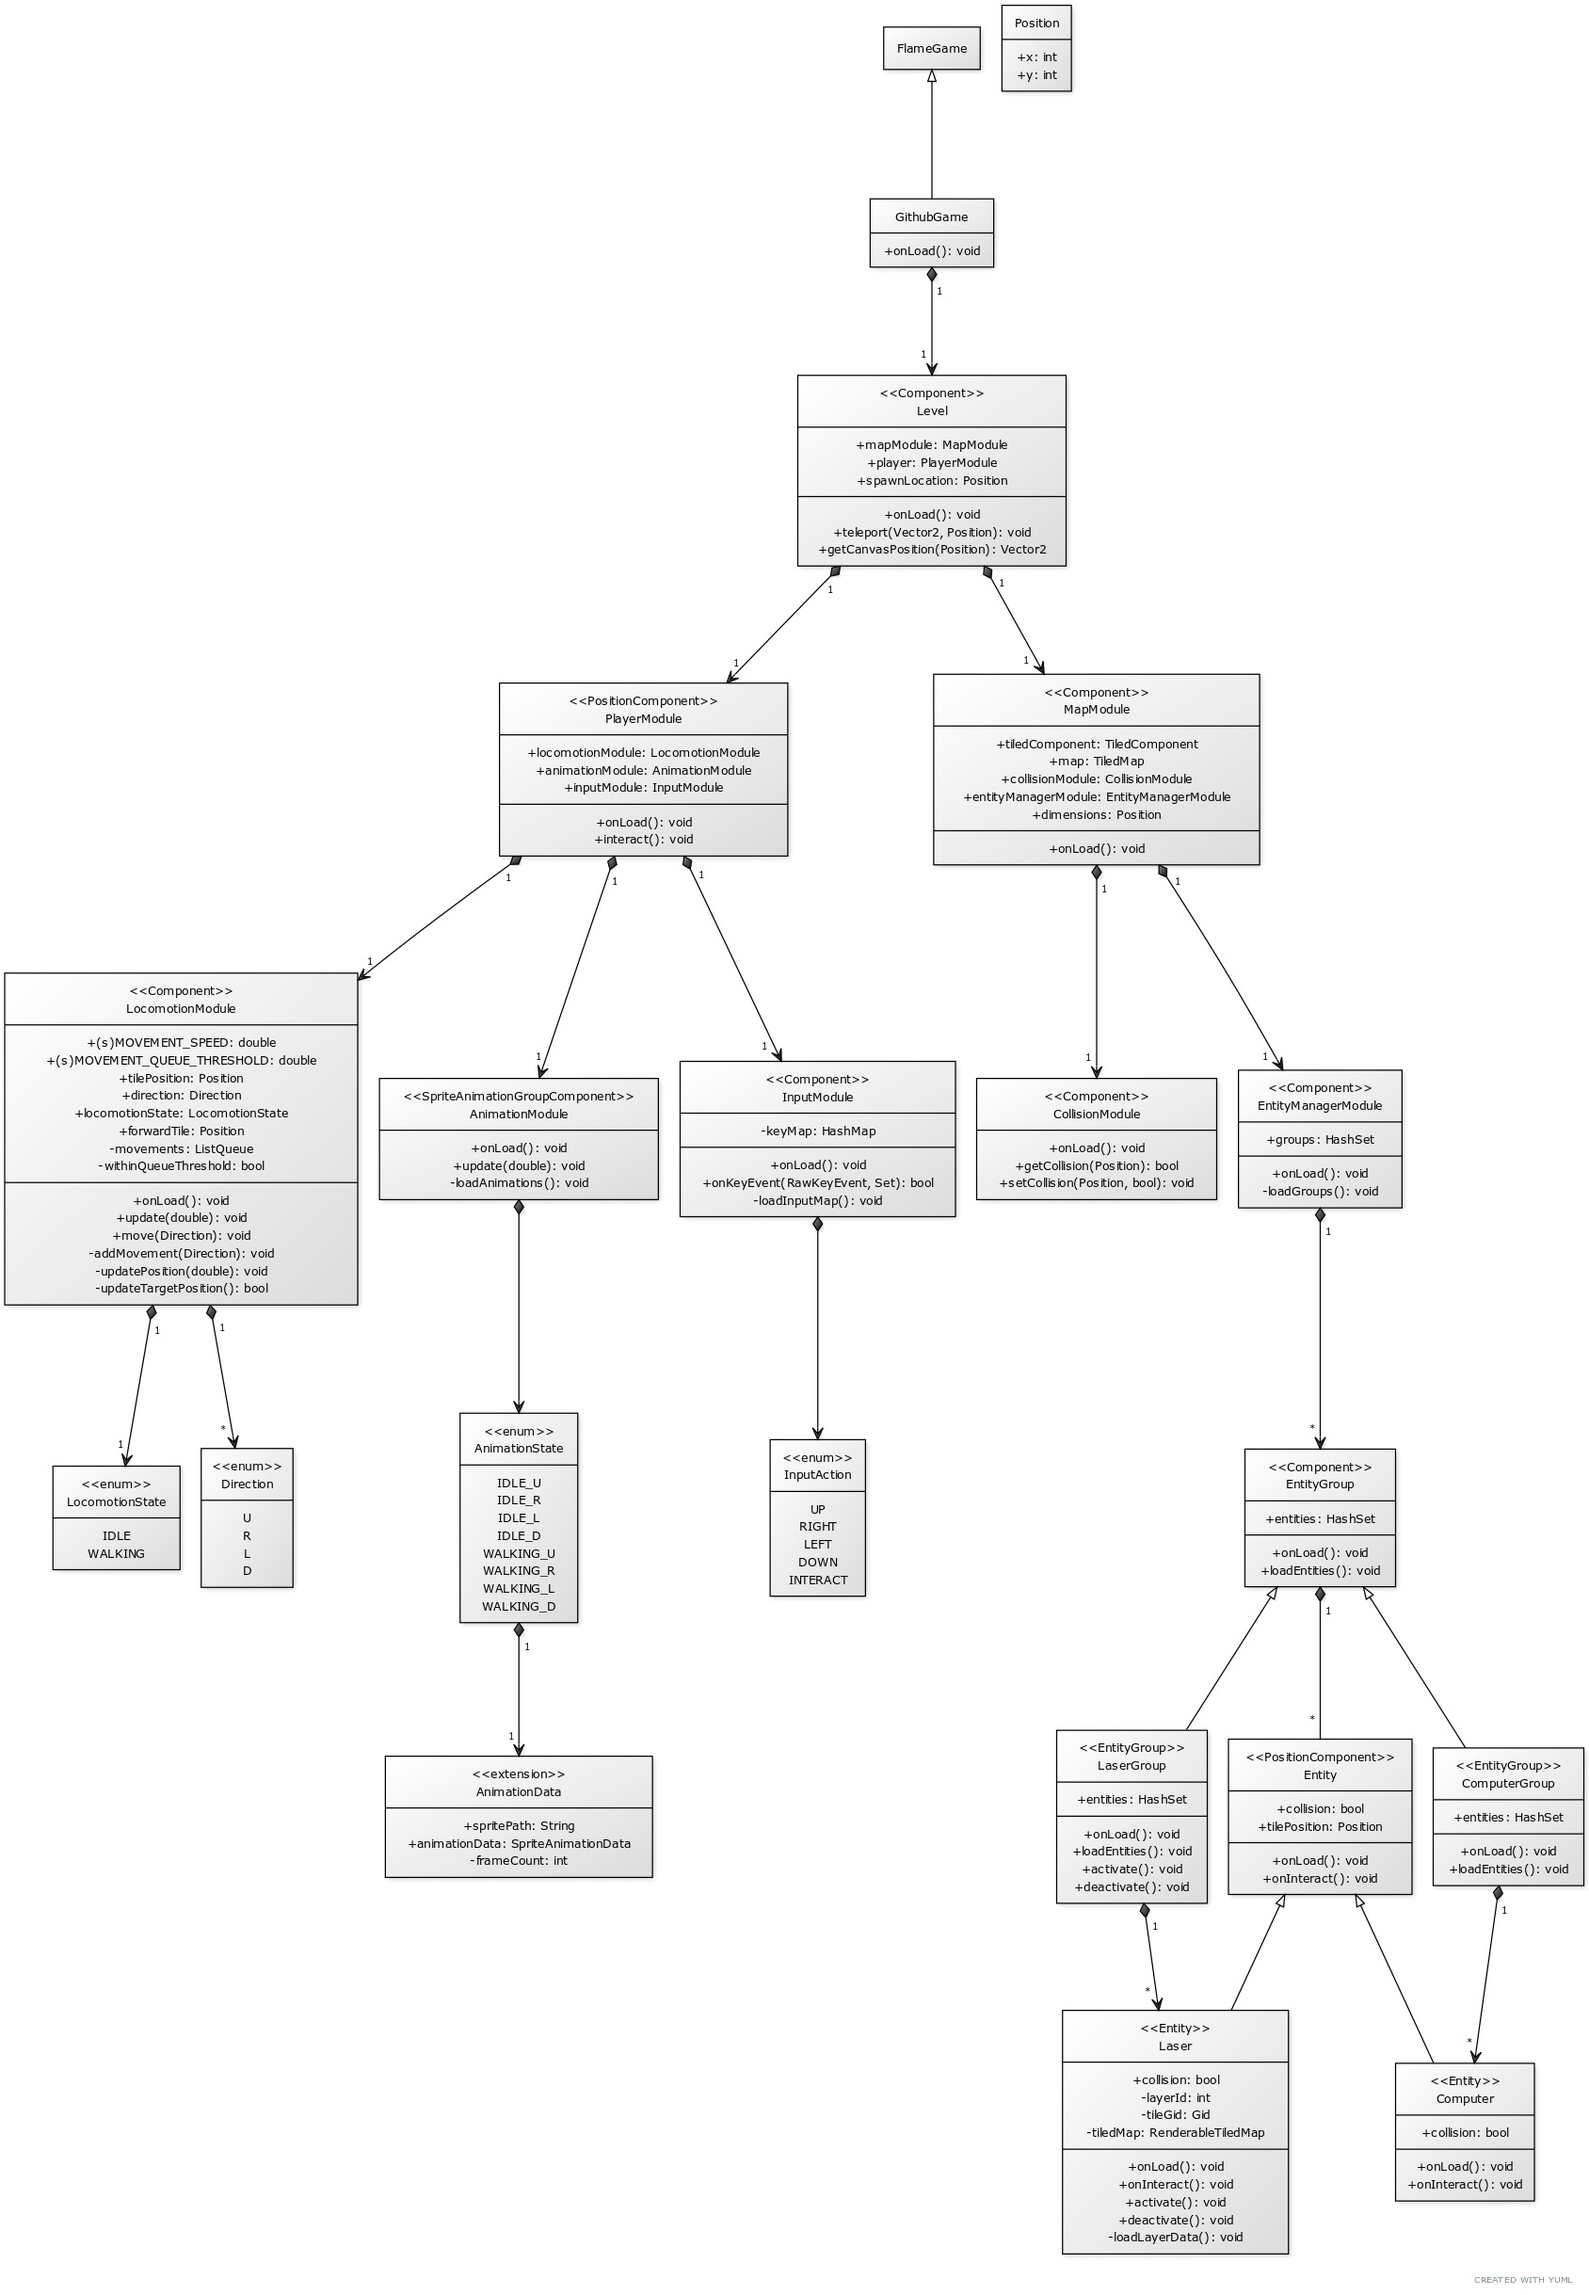
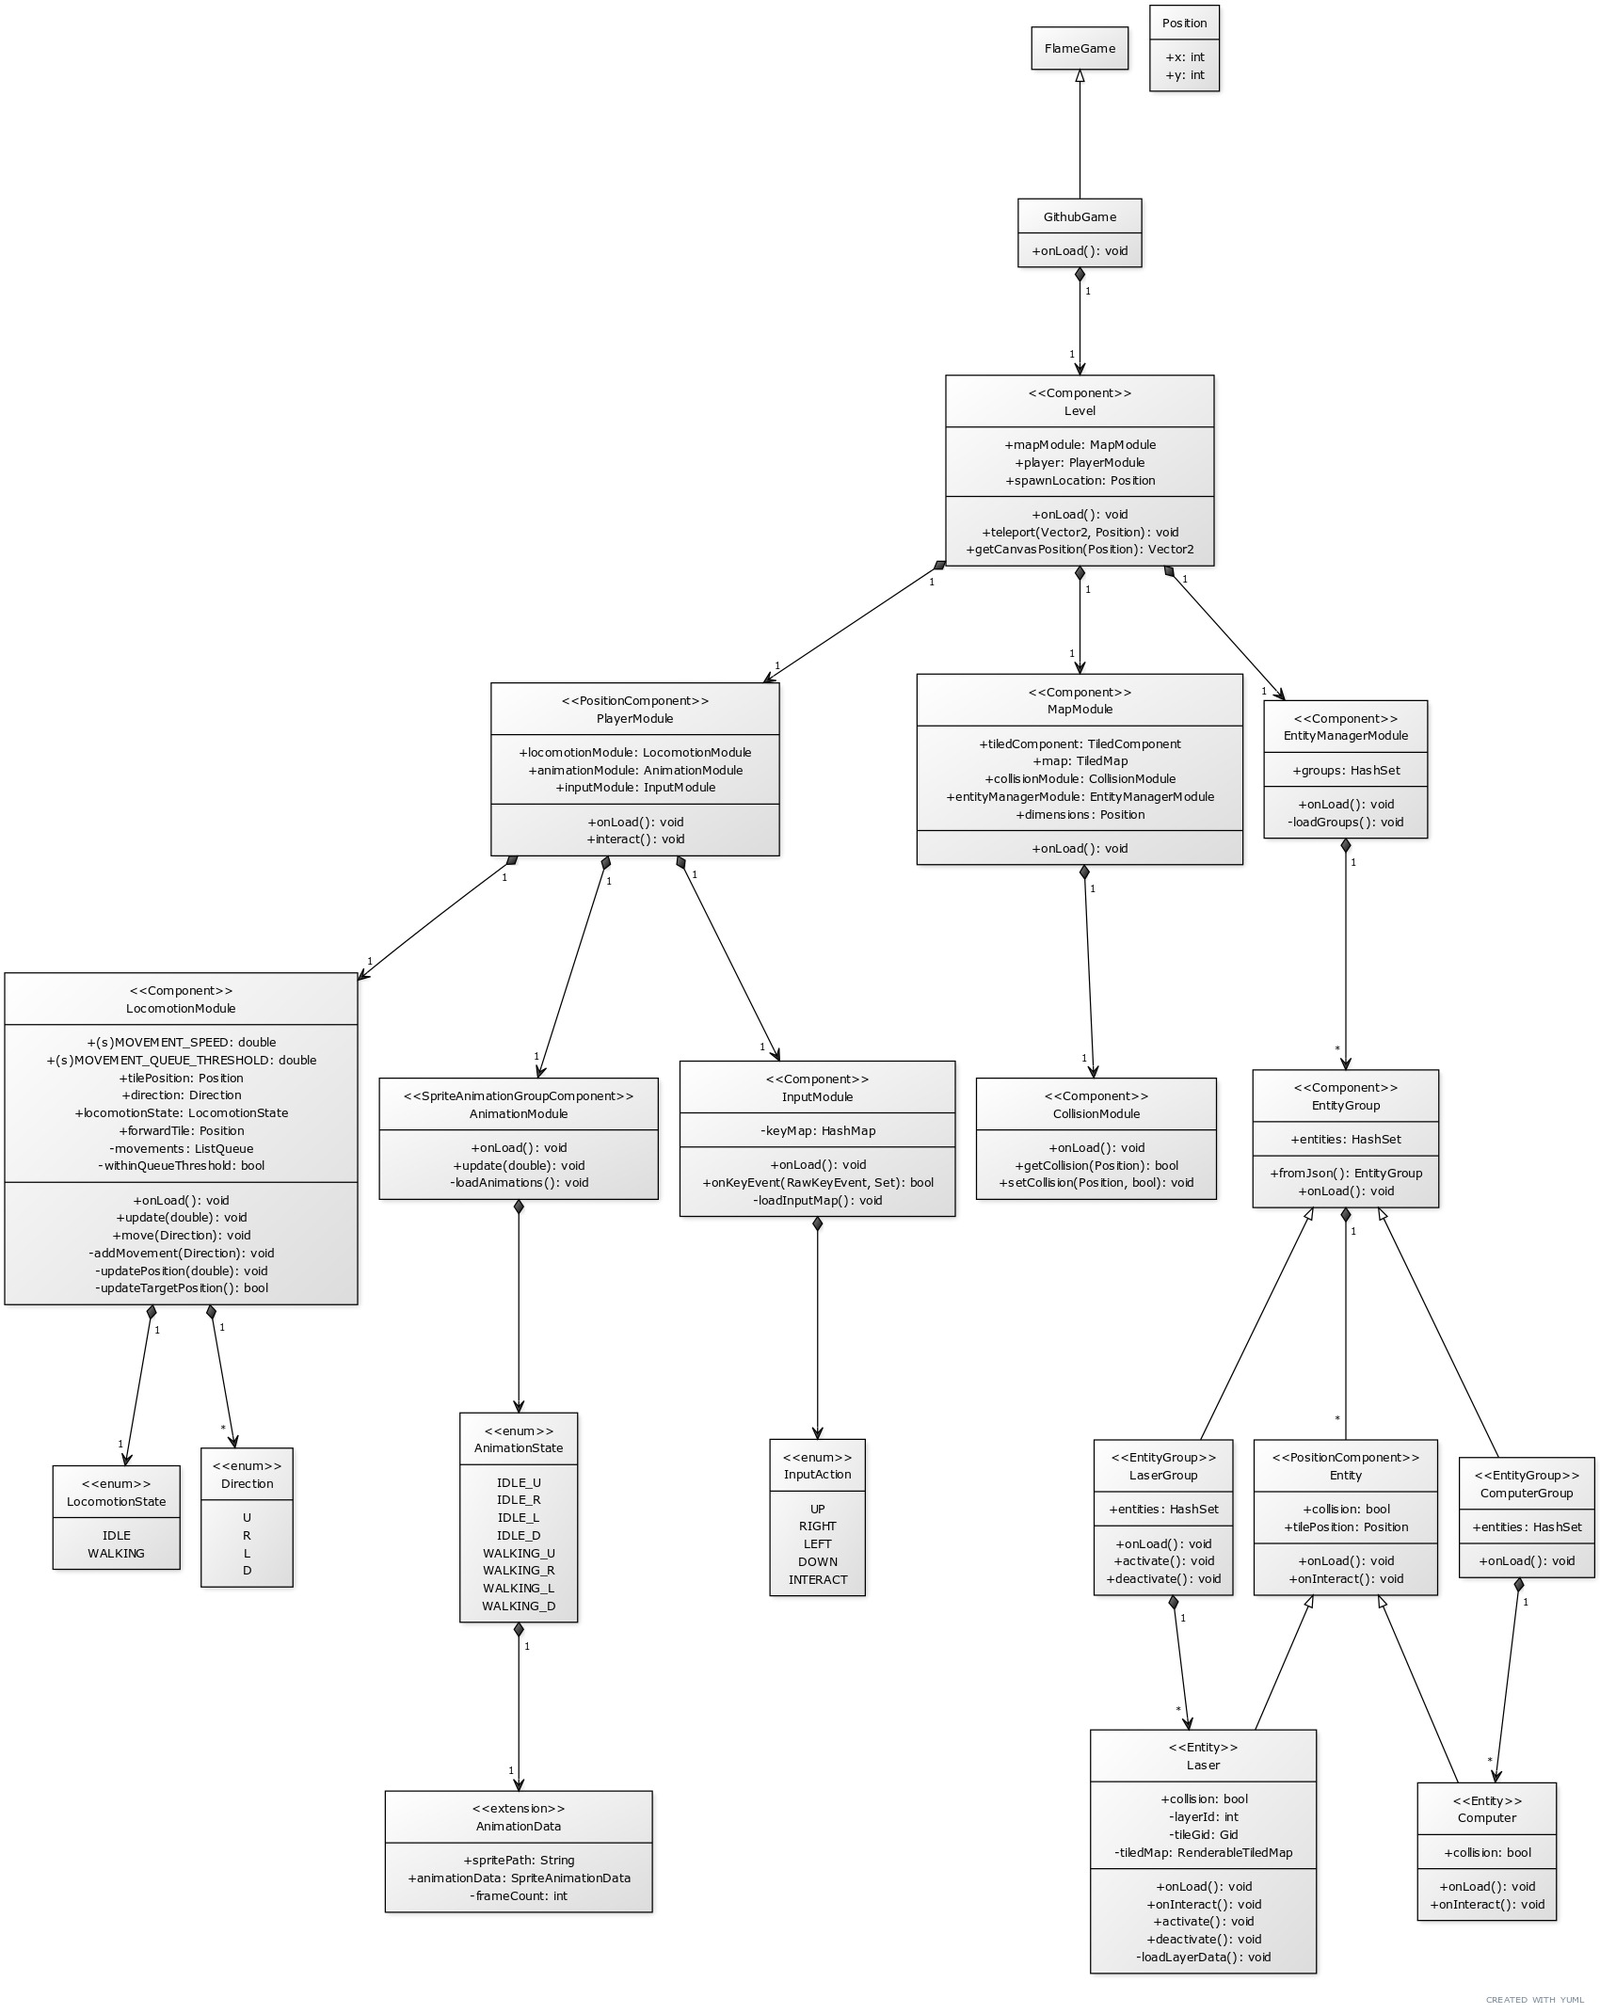
Level loading finished.

diff --git a/lib/level.dart b/lib/level.dart
@@ -1,8 +1,11 @@
 import 'package:flame/components.dart';
+import 'package:github_game/entities/entity_group.dart';
 import 'package:github_game/github_game.dart';
 import 'package:github_game/modules/player_module.dart';
 import 'package:github_game/modules/level/map_module.dart';
+import 'package:github_game/modules/level/entity_manager_module.dart';
 import 'package:quiver/core.dart';
+import 'dart:convert';
 
 /// Represents a position as 2 integers. Useful for tile coordinates.
 class Position {
@@ -16,22 +19,48 @@ class Position {
   String toString() => "$x, $y";
 }
 
+/// This is used to load levels from json files.
+extension _LevelLoader on Level {
+  /// This function loads the data into the level from the json file.
+  void _loadLevelJson(Map<String, dynamic> json) {
+    String title = json["title"];
+    String mapPath = json["mapPath"];
+    Map<String, dynamic> spawnPosMap = json["spawnLocation"];
+    List<dynamic> entityGroups = json["entityGroups"];
+
+    _title = title;
+    _mapModule = MapModule.fromFile(mapPath);
+    _spawnLocation = Position(spawnPosMap["x"], spawnPosMap["y"]);
+
+    _entityManagerModule = EntityManagerModule(
+        entityGroups.map((groupJson) => EntityGroup.fromJson(groupJson)));
+  }
+}
+
 /// Represents a level with a player and tile map.
 class Level extends Component with HasGameRef<GithubGame> {
+  /// Title of the level
+  late final String _title;
+
   /// Reference to the player
   late final PlayerModule _player;
 
   /// Loads and manages the tile map
   late final MapModule _mapModule;
 
-  /// Path to the map file
-  late final String _mapPath;
+  /// Loads and manages the entities
+  late final EntityManagerModule _entityManagerModule;
 
   /// Player spawn location
   late final Position _spawnLocation;
 
-  /// Initializes the level with the map path and spawn location.
-  Level(this._mapPath, this._spawnLocation);
+  /// Initializes the level.
+  Level.fromJson(Map<String, dynamic> json) {
+    _loadLevelJson(json);
+  }
+
+  /// Returns a reference to the title string.
+  String get title => _title;
 
   /// Returns a reference to the player.
   PlayerModule get player => _player;
@@ -39,8 +68,8 @@ class Level extends Component with HasGameRef<GithubGame> {
   /// Returns a reference to the map module.
   MapModule get mapModule => _mapModule;
 
-  /// Returns the path to the map file.
-  String get mapPath => _mapPath;
+  /// Returns the entity manager module which handles all entities in the level.
+  EntityManagerModule get entityManagerModule => _entityManagerModule;
 
   /// Returns the player spawn location.
   Position get spawnLocation => _spawnLocation;
@@ -49,8 +78,8 @@ class Level extends Component with HasGameRef<GithubGame> {
   Future<void> onLoad() async {
     await super.onLoad();
 
-    add(_mapModule = MapModule());
-
+    await add(_mapModule);
+    add(_entityManagerModule);
     add(_player = PlayerModule());
 
     // Teleport the player to their spawn location

diff --git a/lib/modules/level/map_module.dart b/lib/modules/level/map_module.dart
@@ -5,7 +5,6 @@ import 'package:github_game/github_game.dart';
 import 'package:github_game/level.dart';
 import 'package:github_game/mixins/has_level_ref.dart';
 import 'package:github_game/modules/level/map/collision_module.dart';
-import 'package:github_game/modules/level/map/entity_manager_module.dart';
 
 /// This module is responsible for the tile map in a level.
 class MapModule extends Component with HasLevelRef {
@@ -21,11 +20,11 @@ class MapModule extends Component with HasLevelRef {
   /// Loads and manages collision data
   late final CollisionModule _collisionModule;
 
-  /// Loads and manages the entities
-  late final EntityManagerModule _entityManagerModule;
-
   /// The dimensions of the map in tile coordinates
   late final Position _dimensions;
+
+  /// The path to this map file
+  late final String _mapPath;
 
   /// Returns the tiled map component.
   TiledComponent get tiledComponent => _tiledComponent;
@@ -39,19 +38,18 @@ class MapModule extends Component with HasLevelRef {
   /// Returns the collision module which is responsible for all collision data.
   CollisionModule get collisionModule => _collisionModule;
 
-  /// Returns the entity manager module which handles all entities in the level.
-  EntityManagerModule get entityManagerModule => _entityManagerModule;
-
   /// Returns the dimensions of this level.
   Position get dimensions => _dimensions;
+
+  /// This constructor initializes the object with a given file path.
+  MapModule.fromFile(this._mapPath);
 
   @override
   Future<void> onLoad() async {
     await super.onLoad();
 
     // Load the map
-    _tiledComponent =
-        await TiledComponent.load(level.mapPath, GithubGame.TILE_SIZE);
+    _tiledComponent = await TiledComponent.load(_mapPath, GithubGame.TILE_SIZE);
 
     _map = _tiledComponent.tileMap.map;
 
@@ -62,6 +60,5 @@ class MapModule extends Component with HasLevelRef {
 
     // Add the collision and entity manager modules
     add(_collisionModule = CollisionModule());
-    add(_entityManagerModule = EntityManagerModule());
   }
 }

diff --git a/lib/entities/entity_group.dart b/lib/entities/entity_group.dart
@@ -1,6 +1,8 @@
 import 'dart:collection';
 import 'package:flame/components.dart';
 import 'package:github_game/entities/entity.dart';
+import 'package:github_game/entities/groups/computer_group.dart';
+import 'package:github_game/entities/groups/laser_group.dart';
 
 /// This is a group of entity components.
 abstract class EntityGroup<T extends Entity> extends Component {
@@ -11,15 +13,32 @@ abstract class EntityGroup<T extends Entity> extends Component {
   HashSet<T> get entities => _entities;
 
   /// Initializes the group with an empty set.
-  EntityGroup() : _entities = HashSet();
+  EntityGroup(List<dynamic> entityJsons, Map<String, dynamic> properties)
+      : _entities = HashSet();
+
+  /// This factory should be used to create the correct type of entity group
+  /// from json data.
+  factory EntityGroup.fromJson(Map<String, dynamic> json) {
+    String type = json["type"];
+    List<dynamic> entityJsons = json["entities"];
+    Map<String, dynamic> properties = json["properties"];
+
+    EntityGroup group;
+    switch (type) {
+      case "COMPUTER":
+        group = ComputerGroup(entityJsons, properties);
+        break;
+      default:
+        group = LaserGroup(entityJsons, properties);
+        break;
+    }
+
+    return group as EntityGroup<T>;
+  }
 
   @override
   Future<void> onLoad() async {
     await super.onLoad();
-    loadEntities();
     addAll(_entities);
   }
-
-  /// Loads all entities in this group.
-  void loadEntities();
 }

diff --git a/lib/modules/player_module.dart b/lib/modules/player_module.dart
@@ -3,13 +3,13 @@ import 'package:github_game/entities/entity_group.dart';
 import 'package:github_game/github_game.dart';
 import 'package:github_game/level.dart';
 import 'package:github_game/entities/entity.dart';
-import 'package:github_game/mixins/has_map_ref.dart';
+import 'package:github_game/mixins/has_level_ref.dart';
 import 'package:github_game/modules/player/animation_module.dart';
 import 'package:github_game/modules/player/input_module.dart';
 import 'package:github_game/modules/player/locomotion_module.dart';
 
 /// Represents a player in a level.
-class PlayerModule extends PositionComponent with HasMapRef {
+class PlayerModule extends PositionComponent with HasLevelRef {
   /// Controls the movement of the player.
   late final LocomotionModule _locomotionModule;
 
@@ -46,7 +46,7 @@ class PlayerModule extends PositionComponent with HasMapRef {
   /// Calls the interact function on the entity in front of this player.
   void interact() {
     Position pos = _locomotionModule.forwardTile;
-    for (EntityGroup group in mapModule.entityManagerModule.groups) {
+    for (EntityGroup group in level.entityManagerModule.groups) {
       for (Entity entity in group.entities) {
         if (pos == entity.tilePosition) {
           entity.onInteract();

diff --git a/lib/github_game.dart b/lib/github_game.dart
@@ -1,6 +1,8 @@
 import 'package:flame/game.dart';
+import 'package:flutter/services.dart';
 import 'package:github_game/level.dart';
 import 'package:flame/input.dart';
+import 'dart:convert';
 
 /*
   This class represents the game with a specified level
@@ -9,21 +11,19 @@ class GithubGame extends FlameGame with HasKeyboardHandlerComponents {
   // The directory holding animation assets
   static const String ANIMATION_FILE_PATH = "animations";
 
+  static const String LEVEL_FILE_PATH = "assets/levels";
+
   // The size in pixels of each tile
   static final Vector2 TILE_SIZE = Vector2.all(48.0);
 
   // Reference to the loaded level
   late final Level level;
 
-  // The file path to the tile map
-  late final String _mapPath;
-
-  GithubGame(this._mapPath);
-
   @override
   Future<void> onLoad() async {
     await super.onLoad();
-
-    add(level = Level(_mapPath, Position(5, 5)));
+    String json =
+        await rootBundle.loadString("$LEVEL_FILE_PATH/level_one.json");
+    add(level = Level.fromJson(jsonDecode(json)));
   }
 }

diff --git a/lib/modules/level/entity_manager_module.dart b/lib/modules/level/entity_manager_module.dart
@@ -1,7 +1,6 @@
 import 'dart:collection';
 import 'package:flame/components.dart';
 import 'package:github_game/entities/entity_group.dart';
-import 'package:github_game/entities/groups/laser_group.dart';
 
 /// This module is responsible for handling groups of entities in the level.
 class EntityManagerModule extends Component {
@@ -11,18 +10,13 @@ class EntityManagerModule extends Component {
   /// Returns the set of all entity groups.
   HashSet<EntityGroup> get groups => _groups;
 
-  /// Initializes the module and the set of entity groups.
-  EntityManagerModule() : _groups = HashSet();
+  /// Loads all entity groups and adds them to the set.
+  EntityManagerModule(Iterable<EntityGroup> entityGroups)
+      : _groups = HashSet()..addAll(entityGroups);
 
   @override
   Future<void> onLoad() async {
     await super.onLoad();
-    _loadGroups();
     addAll(_groups);
-  }
-
-  /// Loads all entity groups and adds them to the set.
-  void _loadGroups() {
-    _groups.add(LaserGroup());
   }
 }

diff --git a/lib/entities/groups/laser_group.dart b/lib/entities/groups/laser_group.dart
@@ -5,17 +5,15 @@ import 'package:github_game/level.dart';
 /// This class represents a group of lasers that can be activated and
 /// deactivated together.
 class LaserGroup extends EntityGroup<Laser> {
-  @override
-  void loadEntities() {
-    // ** DEBUGGING CODE **
-    entities.add(Laser(Position(5, 0)));
-    entities.add(Laser(Position(6, 0)));
-    entities.add(Laser(Position(7, 0)));
-    entities.add(Laser(Position(8, 0)));
-    entities.add(Laser(Position(5, 1)));
-    entities.add(Laser(Position(6, 1)));
-    entities.add(Laser(Position(7, 1)));
-    entities.add(Laser(Position(8, 1)));
+  /// This constructor parses the json data and creates the laser group.
+  LaserGroup(List<dynamic> entityJsons, Map<String, dynamic> properties)
+      : super(entityJsons, properties) {
+    entities.addAll(
+        entityJsons.map((json) => Laser(Position(json["x"], json["y"]))));
+
+    if (!properties["active"]) {
+      deactivate();
+    }
   }
 
   /// Activate all lasers in the group.

diff --git a/lib/entities/groups/computer_group.dart b/lib/entities/groups/computer_group.dart
@@ -2,6 +2,6 @@ import 'package:github_game/entities/entity_group.dart';
 import 'package:github_game/entities/individuals/computer.dart';
 
 class ComputerGroup extends EntityGroup<Computer> {
-  @override
-  void loadEntities() {}
+  ComputerGroup(List<dynamic> entityJsons, Map<String, dynamic> properties)
+      : super(entityJsons, properties);
 }

diff --git a/lib/main.dart b/lib/main.dart
@@ -3,7 +3,7 @@ import 'package:flutter/material.dart';
 import 'package:github_game/github_game.dart';
 
 void main() {
-  final game = GithubGame("level_one.tmx");
+  final game = GithubGame();
 
   runApp(GameWidget(game: game));
 }
